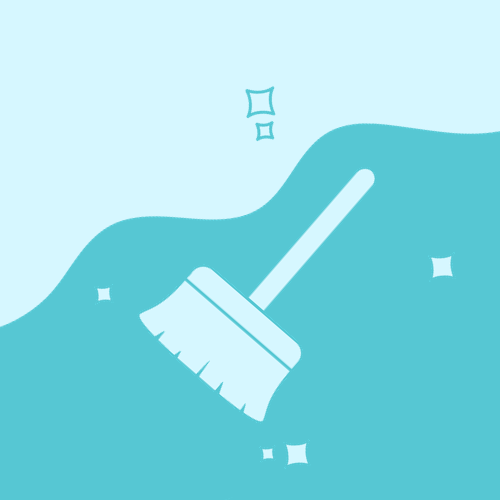
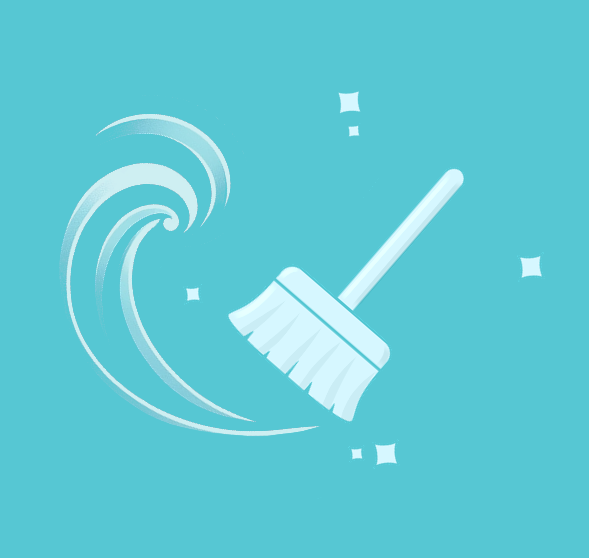
new image

diff --git a/src/App.js b/src/App.js
@@ -24,17 +24,7 @@ function App() {
         />
         <ImageSlideshow
           images={[
-            "https://media.discordapp.net/attachments/222776929256734722/1187693780879544402/Salish_Sparkle_Cleaning_Icon.png?ex=65a10b87&is=658e9687&hm=562d4c1b66ed7738535402225a715e7041d06dc0b9e9b21c52964b4b56450756&=&format=webp&quality=lossless",
-            "https://media.discordapp.net/attachments/222776929256734722/1187693780879544402/Salish_Sparkle_Cleaning_Icon.png?ex=65a10b87&is=658e9687&hm=562d4c1b66ed7738535402225a715e7041d06dc0b9e9b21c52964b4b56450756&=&format=webp&quality=lossless",
-            "https://media.discordapp.net/attachments/222776929256734722/1187693780879544402/Salish_Sparkle_Cleaning_Icon.png?ex=65a10b87&is=658e9687&hm=562d4c1b66ed7738535402225a715e7041d06dc0b9e9b21c52964b4b56450756&=&format=webp&quality=lossless",
-            "https://media.discordapp.net/attachments/222776929256734722/1187693780879544402/Salish_Sparkle_Cleaning_Icon.png?ex=65a10b87&is=658e9687&hm=562d4c1b66ed7738535402225a715e7041d06dc0b9e9b21c52964b4b56450756&=&format=webp&quality=lossless",
-            "https://media.discordapp.net/attachments/222776929256734722/1187693780879544402/Salish_Sparkle_Cleaning_Icon.png?ex=65a10b87&is=658e9687&hm=562d4c1b66ed7738535402225a715e7041d06dc0b9e9b21c52964b4b56450756&=&format=webp&quality=lossless",
-            "https://media.discordapp.net/attachments/222776929256734722/1187693780879544402/Salish_Sparkle_Cleaning_Icon.png?ex=65a10b87&is=658e9687&hm=562d4c1b66ed7738535402225a715e7041d06dc0b9e9b21c52964b4b56450756&=&format=webp&quality=lossless",
-            "https://media.discordapp.net/attachments/222776929256734722/1187693780879544402/Salish_Sparkle_Cleaning_Icon.png?ex=65a10b87&is=658e9687&hm=562d4c1b66ed7738535402225a715e7041d06dc0b9e9b21c52964b4b56450756&=&format=webp&quality=lossless",
-            "https://media.discordapp.net/attachments/222776929256734722/1187693780879544402/Salish_Sparkle_Cleaning_Icon.png?ex=65a10b87&is=658e9687&hm=562d4c1b66ed7738535402225a715e7041d06dc0b9e9b21c52964b4b56450756&=&format=webp&quality=lossless",
-            "https://media.discordapp.net/attachments/222776929256734722/1187693780879544402/Salish_Sparkle_Cleaning_Icon.png?ex=65a10b87&is=658e9687&hm=562d4c1b66ed7738535402225a715e7041d06dc0b9e9b21c52964b4b56450756&=&format=webp&quality=lossless",
-            "https://media.discordapp.net/attachments/222776929256734722/1187693780879544402/Salish_Sparkle_Cleaning_Icon.png?ex=65a10b87&is=658e9687&hm=562d4c1b66ed7738535402225a715e7041d06dc0b9e9b21c52964b4b56450756&=&format=webp&quality=lossless",
-            "https://media.discordapp.net/attachments/222776929256734722/1187693780879544402/Salish_Sparkle_Cleaning_Icon.png?ex=65a10b87&is=658e9687&hm=562d4c1b66ed7738535402225a715e7041d06dc0b9e9b21c52964b4b56450756&=&format=webp&quality=lossless"
+            "https://media.discordapp.net/attachments/222776929256734722/1191671574902865930/Salish_Sparkle_Cleaning_Icon_variant2.png?ex=65a649a3&is=6593d4a3&hm=3077b265068cc39a6a8cbc27c55c2004732895a8c2df40497325964ee1de6045&=&format=webp&quality=lossless"
           ]}
           currentPage
           changePageTo={changePageTo}
@@ -69,14 +59,26 @@ function App() {
         />
         <div className='HomeCleaningPageContainer'>
           <h3 className='ServicesOffered'>Home Cleaning</h3>
-          <span>1 Bedroom Home Estimated $105 @ 3 hours <br /> 3 Bedroom Home Estimated $175 @ 5 hours <br />  Basic Service $35/h*</span>
+          <span>1 Bedroom Home Estimated $90 @ 3 hours <br /> 3 Bedroom Home Estimated $150 @ 5 hours <br />  Basic Service $30/h*</span>
           <ConsultationButtonInline
             changePageTo={changePageTo}
           />
           <span className='ServicesOffered'>Services Offered</span>
           <div className='FlexboxRow'>
-            <div className='FlexboxColumn ServiceContainerCateg'>
+          <div className='FlexboxColumn ServiceContainerCateg'>
               <span className='ServiceCatergory'>General</span>
+              <ul>
+                <li className='ServicesListItem'>Floor Care: <span className='ServicesListItemSubtext'>Sweeping and spot cleaning on all floor types</span></li>
+                <li className='ServicesListItem'>Mopping: <span className='ServicesListItemSubtext'>Hard floors</span></li>
+                <li className='ServicesListItem'>Glass Cleaning: <span className='ServicesListItemSubtext'>Mirrors, glass tables, and interior windows</span></li>
+                <li className='ServicesListItem'>Trash Removal: <span className='ServicesListItemSubtext'>Emptying bins and replacing liners</span></li>
+                <li className='ServicesListItem'>Surface Sanitization: <span className='ServicesListItemSubtext'>High-touch areas, doorknobs, light switches</span></li>
+                <li className='ServicesListItem'>Ceiling and Corner Web Removal: <span className='ServicesListItemSubtext'>Clearing webs and dust from ceilings and corners</span></li>
+                <li className='ServicesListItem'>Baseboard Cleaning: <span className='ServicesListItemSubtext'>Wiping down and dusting baseboards</span></li>
+              </ul>
+            </div>
+            <div className='FlexboxColumn ServiceContainerCateg'>
+              <span className='ServiceCatergory'>Kitchen</span>
               <ul>
                 <li className='ServicesListItem'>Appliance Cleaning: <span className='ServicesListItemSubtext'>Exterior of refrigerator, oven, microwave, dishwasher</span></li>
                 <li className='ServicesListItem'>Countertop Cleaning: <span className='ServicesListItemSubtext'>Including backsplashes, sanitizing surfaces</span></li>
@@ -100,19 +102,7 @@ function App() {
                 <li className='ServicesListItem'>Floor Sweeping and Mopping: <span className='ServicesListItemSubtext'>Special attention to corners and behind the toilet</span></li>
                 <li className='ServicesListItem'>Cabinet and Drawer Exterior: <span className='ServicesListItemSubtext'>Wiping down surfaces</span></li>
                 <li className='ServicesListItem'>Exhaust Fan Dusting: <span className='ServicesListItemSubtext'>Removing dust and buildup</span></li>
-                <li className='ServicesListItem'>Towel Replacement: <span className='ServicesListItemSubtext'>Changing towels if provided</span></li>
-              </ul>
-            </div>
-            <div className='FlexboxColumn ServiceContainerCateg'>
-              <span className='ServiceCatergory'>General</span>
-              <ul>
-                <li className='ServicesListItem'>Floor Care: <span className='ServicesListItemSubtext'>Sweeping and spot cleaning on all floor types</span></li>
-                <li className='ServicesListItem'>Mopping: <span className='ServicesListItemSubtext'>Hard floors</span></li>
-                <li className='ServicesListItem'>Glass Cleaning: <span className='ServicesListItemSubtext'>Mirrors, glass tables, and interior windows</span></li>
-                <li className='ServicesListItem'>Trash Removal: <span className='ServicesListItemSubtext'>Emptying bins and replacing liners</span></li>
-                <li className='ServicesListItem'>Surface Sanitization: <span className='ServicesListItemSubtext'>High-touch areas, doorknobs, light switches</span></li>
-                <li className='ServicesListItem'>Ceiling and Corner Web Removal: <span className='ServicesListItemSubtext'>Clearing webs and dust from ceilings and corners</span></li>
-                <li className='ServicesListItem'>Baseboard Cleaning: <span className='ServicesListItemSubtext'>Wiping down and dusting baseboards</span></li>
+                <li className='ServicesListItem'>**Towel Replacement: <span className='ServicesListItemSubtext'>Changing towels if provided</span></li>
               </ul>
             </div>
           </div>

diff --git a/src/App.css b/src/App.css
@@ -2,7 +2,7 @@
 
 *{
   color: #FFFFF0;
-  background-color: #1AA7B6;
+  background-color: #56C7D3;
   overflow-x: hidden;
   text-align: center;
   font-family: "Chelsea Market";
@@ -213,7 +213,7 @@ button:hover{
   position: sticky;
   bottom: 0;
   width: 100%;
-  height: 50px;
+  height: 70px;
   width: 100vw;
   display: flex;
   flex-direction: row;
@@ -264,7 +264,7 @@ button:hover{
   width: 250px;
   height: 75px;
   left : 50%;
-  transform:translate(-50%, +100%);
+  transform:translate(-50%, +145%);
   top: 0px;
   z-index: 1;
 }
@@ -290,8 +290,8 @@ button:hover{
 
 .SlideshowImage{
   flex-shrink: 0;
-  height : 250px;
-  width: 250px;
+  height : 300px;
+  width: 300px;
 }
 
 .HomeCleaningPageContainer{
@@ -301,7 +301,8 @@ button:hover{
 
 .FlexboxRow{
   padding: 0px;
-  margin-left: 50px;
+  margin-left: 20px;
+  margin-right: 50px;
   display: flex;
   flex-direction: row;
   justify-content: center;
@@ -324,7 +325,7 @@ button:hover{
 .ServiceCatergory{
   padding-bottom: 10px;
   margin-right: 60px;
-  color: #d3aa52;
+  color: #f7e99e;
   font-size: larger;
   font-weight: bold;
 }
@@ -348,7 +349,7 @@ ul{
 
 .ServicesListItem{
   background-color: inherit;
-  color: #d3aa52;
+  color: #f7e99e;
   font-size: large;
 }
 
@@ -363,7 +364,7 @@ ul{
 }
 
 .ServiceContainerCateg{
-  background-color: #0B7581;
+  background-color: #1AA7B6;
   margin-left: 15px;
   margin-right: 15px;
   border-radius: 20px;
